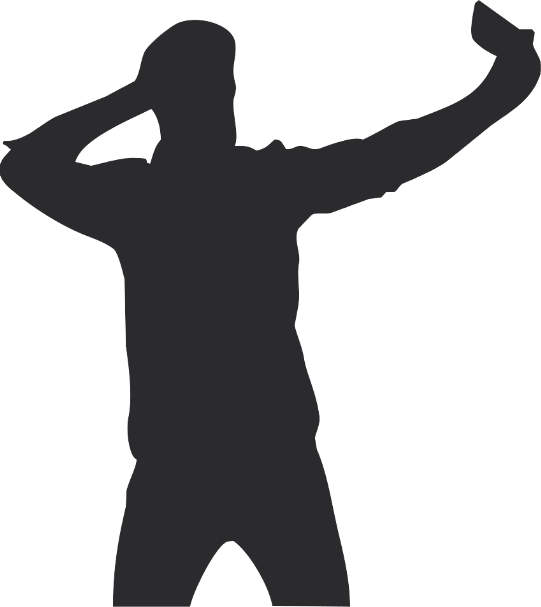
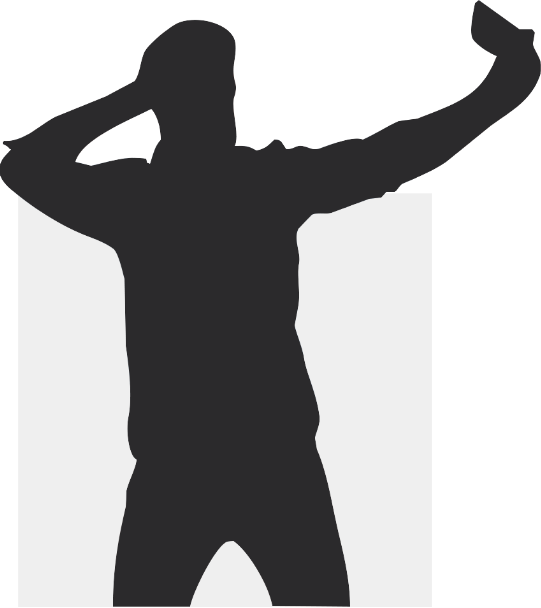
Start reviews block

Changed region(s): [[0.207, 0.9786, 0.3549, 1.0], [0.5323, 0.9786, 0.6506, 1.0]]

diff --git a/some-portfolio-template__less-jquery/index.html b/some-portfolio-template__less-jquery/index.html
@@ -218,6 +218,32 @@
     </div><!-- /.about__container-->
   </section>
 
+  <!-- Reviews block -->
+  <div class="reviews">
+    <div class="container">
+
+      <div class="reviews__item">
+        <div class="reviews__text">
+          <p>Lorem ipsum dolor sit amet consectetur adipisicing elit. Neque rerum quia nam
+            voluptates sint velit eligendi obcaecati placeat consectetur beatae molestias fugiat
+            est, quaerat, asperiores sunt quos, numquam sit repellendus!</p>
+          <p>Lorem ipsum dolor sit amet consectetur adipisicing elit. Neque rerum quia nam
+            voluptates sint velit eligendi obcaecati placeat consectetur beatae molestias fugiat
+            est, quaerat, asperiores sunt quos, numquam sit repellendus!</p>
+        </div>
+        <div class="reviews__author">
+          <img src="" alt="">
+          <div class="reviews__name"></div>
+          <div class="reviews__company"></div>
+          <div class="reviews__rating"></div>
+        </div>
+      </div><!-- /.reviews__item -->
+
+    </div><!-- /.container -->
+  </div><!-- /.reviews -->
+
 </body>
 
 </html>
+
+<!-- 2:20 -->

diff --git a/some-portfolio-template__less-jquery/css/style.css b/some-portfolio-template__less-jquery/css/style.css
@@ -244,22 +244,11 @@ h6 {
   max-width: 1087px;
 }
 .about__photo {
-  position: relative;
   width: 50%;
 }
 .about__photo img {
   position: relative;
   z-index: 2;
-}
-.about__photo::before {
-  content: "";
-  width: 413px;
-  height: 413px;
-  background-color: #eee;
-  position: absolute;
-  left: 1rem;
-  bottom: 0;
-  z-index: 1;
 }
 .about__content {
   width: 50%;
@@ -276,7 +265,7 @@ h6 {
   position: relative;
   left: -10px;
   margin-bottom: 1.4rem;
-  font-size: 6.1rem;
+  font-size: 5.7rem;
   line-height: 1.1;
   text-transform: uppercase;
   color: rgba(43, 42, 44, 0.15);

diff --git a/some-portfolio-template__less-jquery/css/blocks/about.less b/some-portfolio-template__less-jquery/css/blocks/about.less
@@ -10,23 +10,11 @@
 }
 
 .about__photo {
-  position: relative;
   width: 50%;
 
   img {
     position: relative;
     z-index: 2;
-  }
-
-  &::before {
-    content: "";
-    width: 413px;
-    height: 413px;
-    background-color: #eee;
-    position: absolute;
-    left: 1rem;
-    bottom: 0;
-    z-index: 1;
   }
 }
 
@@ -48,7 +36,7 @@
   left: -10px;
   margin-bottom: 1.4rem;
 
-  font-size: 6.1rem;
+  font-size: 5.7rem;
   line-height: 1.1;
   text-transform: uppercase;
   color: fade(@black, 15);
